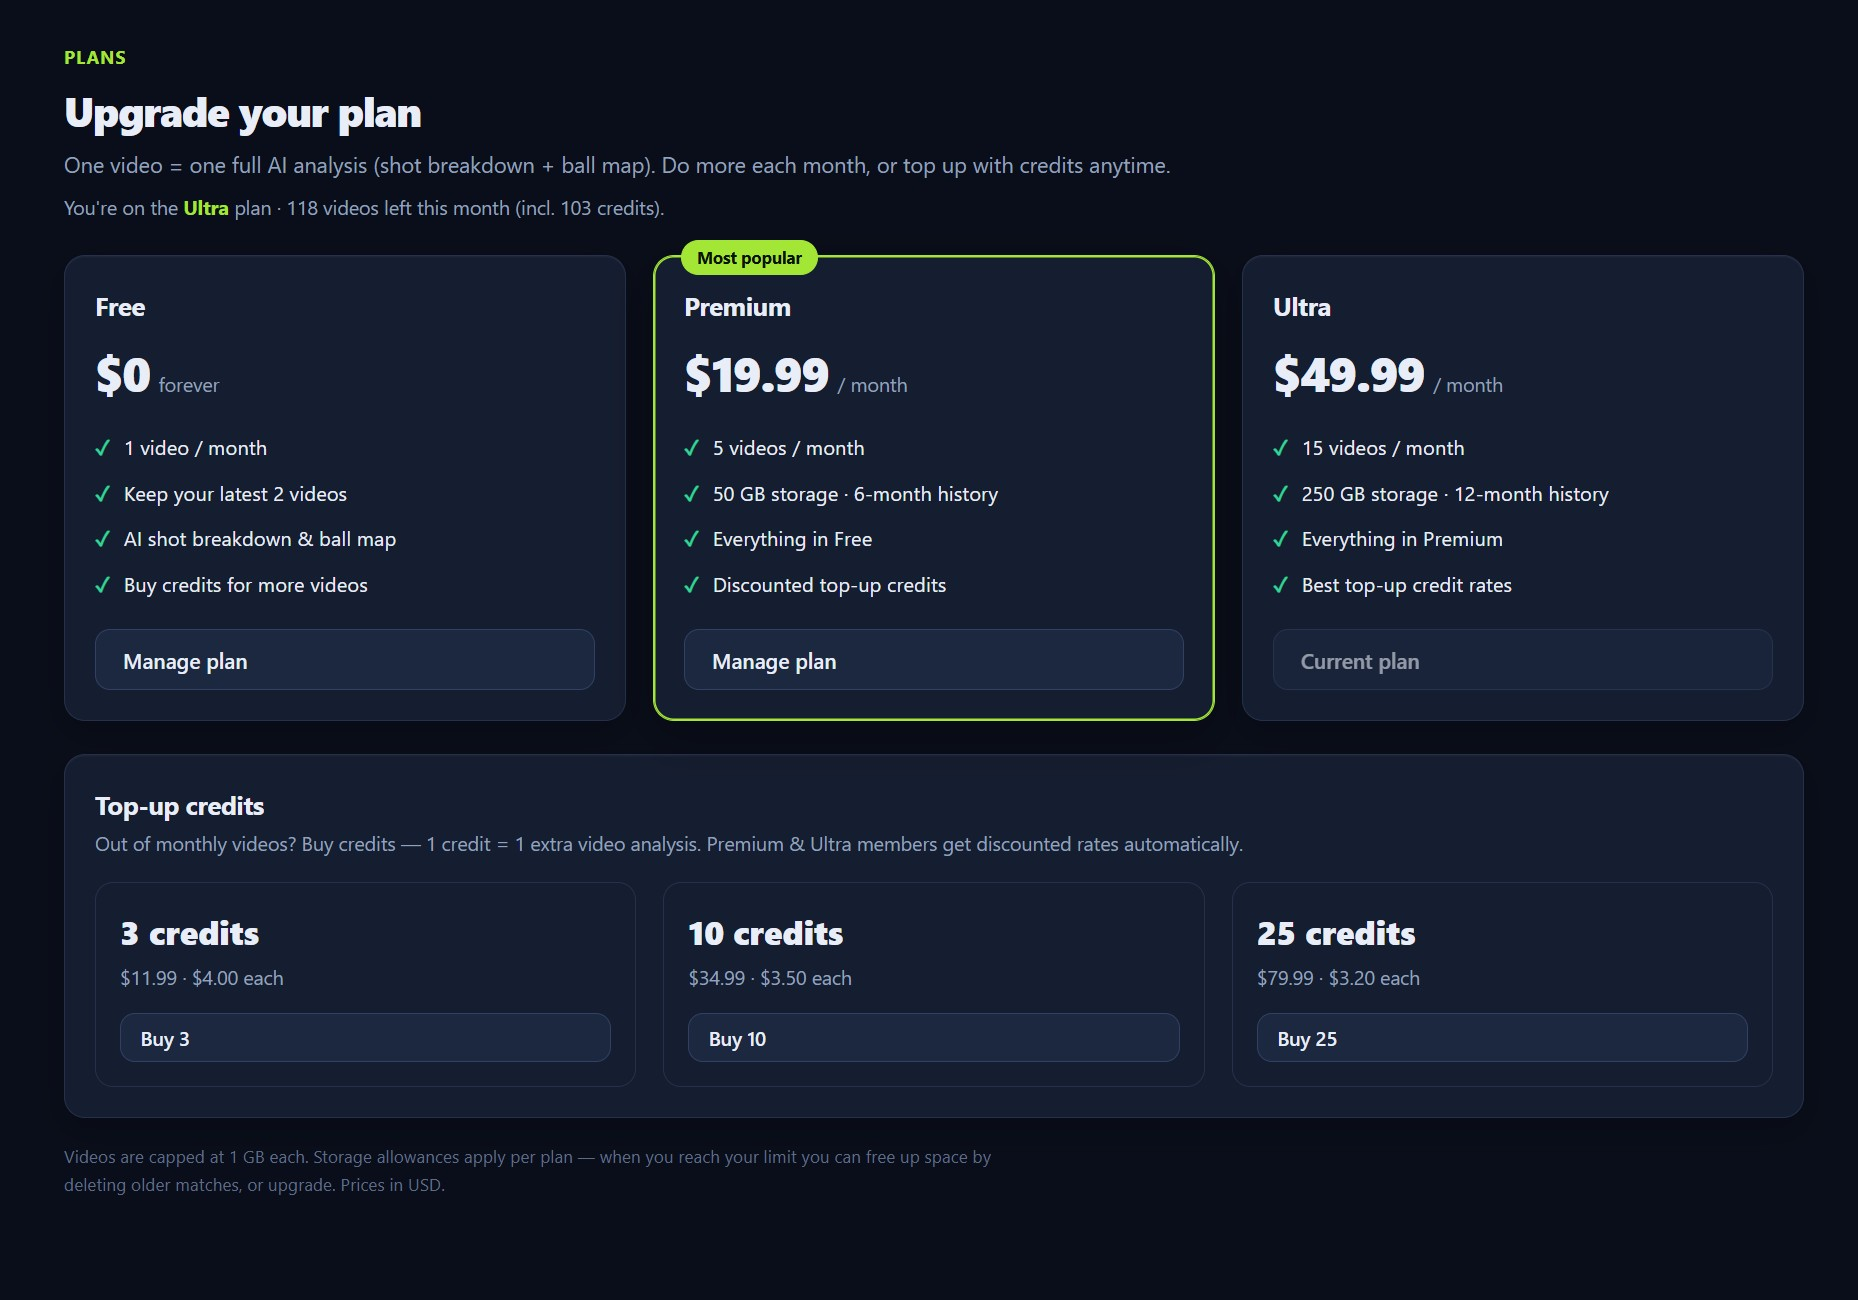
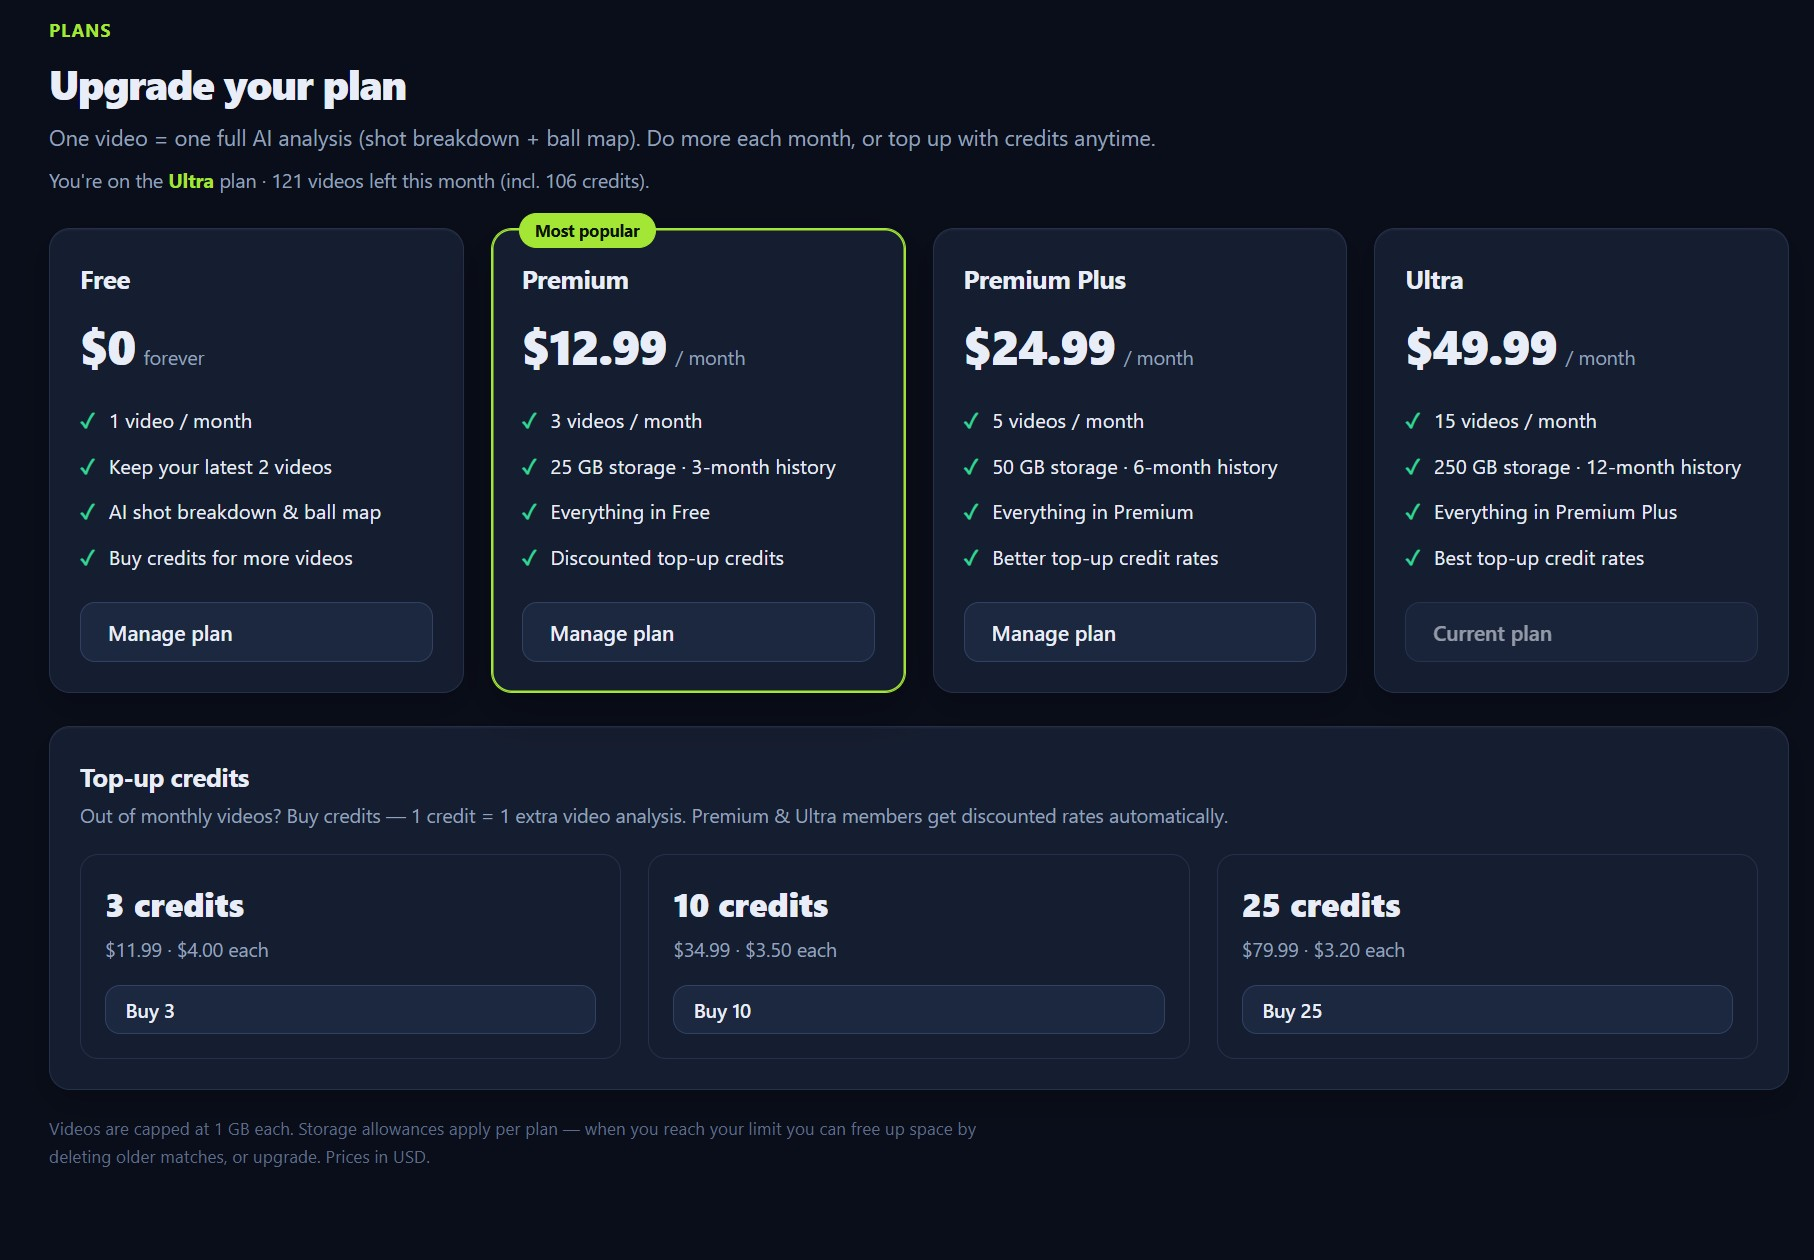
fix(billing): Premium Plus allowance is 7 videos/mo (was 5)

diff --git a/src/lib/plan.ts b/src/lib/plan.ts
@@ -2,7 +2,7 @@ import type { SupabaseClient } from "@supabase/supabase-js";
 
 // Monthly video allowance per plan. A "video" = one full AI analysis of an
 // uploaded match. Beyond the monthly allowance, users spend top-up credits.
-export const PLAN_LIMITS = { free: 1, premium: 3, premiumplus: 5, ultra: 15 } as const;
+export const PLAN_LIMITS = { free: 1, premium: 3, premiumplus: 7, ultra: 15 } as const;
 export const PLAN_LABEL = { free: "Free", premium: "Premium", premiumplus: "Premium Plus", ultra: "Ultra" } as const;
 export const MAX_VIDEO_BYTES = 1024 * 1024 * 1024; // 1 GB hard cap per upload
 

diff --git a/src/app/upgrade/page.tsx b/src/app/upgrade/page.tsx
@@ -38,7 +38,7 @@ const tiers = [
     price: "$24.99",
     per: "/ month",
     features: [
-      "5 videos / month",
+      "7 videos / month",
       "50 GB storage · 6-month history",
       "Everything in Premium",
       "Better top-up credit rates",
